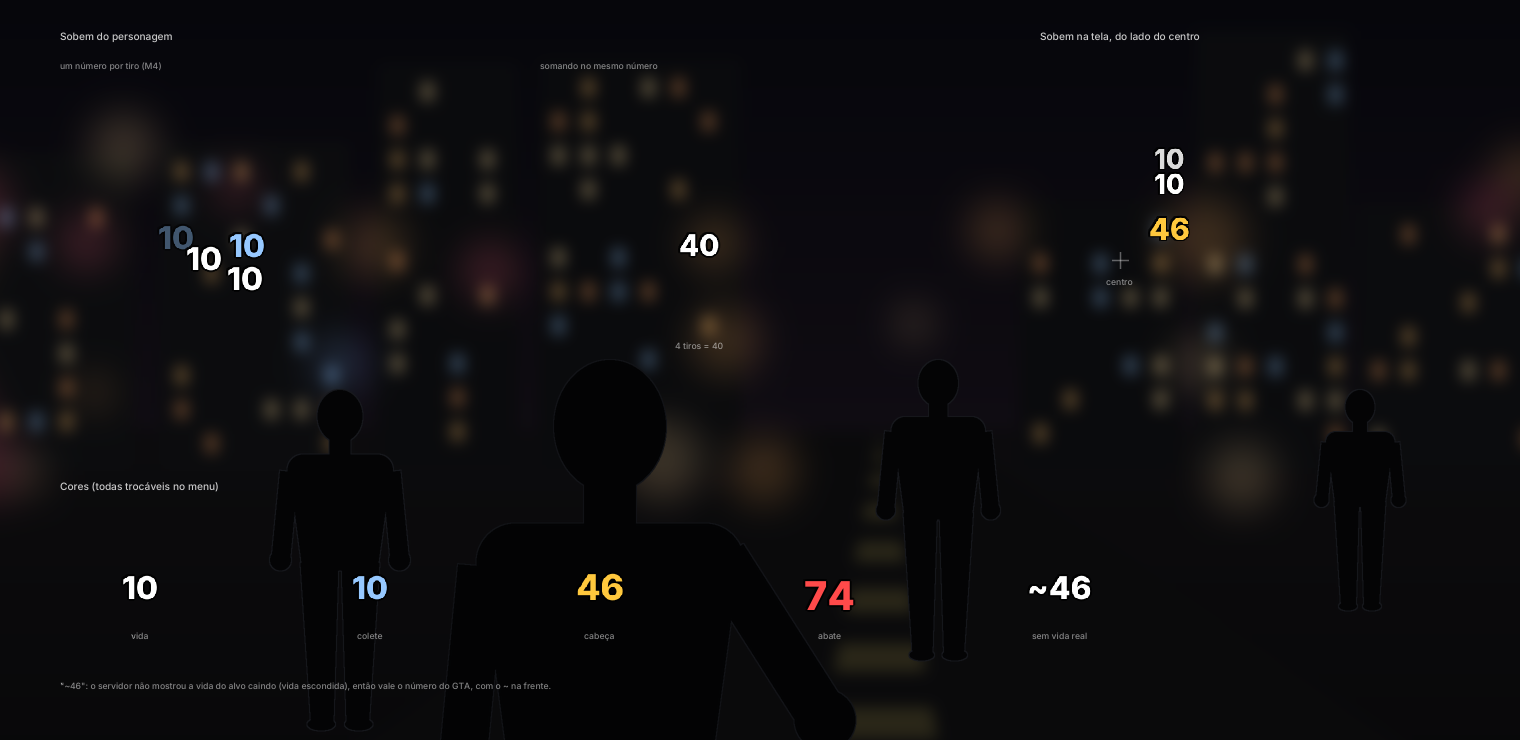
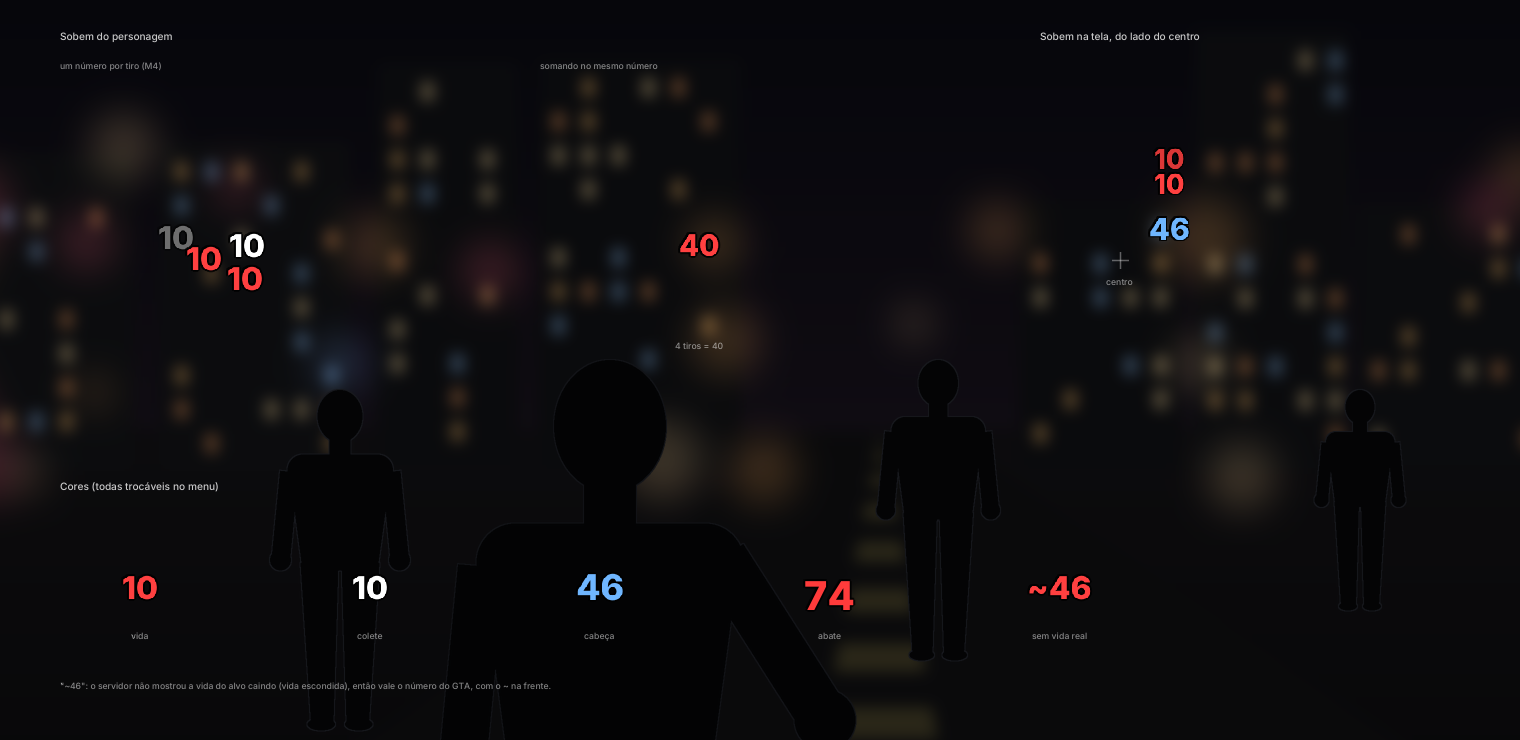
Trok Hitmarker concept: Trok dot crosshair and dot hit effects
Brings the user's Mira Centralizada script into the Mira tab: game
crosshair or the Trok dot (always visible on foot, hidden in vehicles
and with sniper, rocket launchers), with size and color. New "Ponto"
hit effect, the default: the dot itself reacts (red pop with a ring,
blue cross on headshot, red X on kill), timed in seconds instead of
frames. Hit colors follow that script: hit red, head blue, kill red.
The on-body hit location always uses the X and moved to the Dano tab.

Claude-Session: https://claude.ai/code/session_01PybPBz7ZnmDEjHWo6B5FJ6

diff --git a/trok-hit/test/concept.cpp b/trok-hit/test/concept.cpp
@@ -155,6 +155,7 @@ static hud::Line EnzoLine() {
 static hud::State Fight() {
     hud::State s;
     s.crosshair = CROSS;
+    s.showCrosshair = true;
     // os tiros de antes ainda marcados no corpo (perna e peito) e o da cabeca agora
     hud::Marker m;
     m.body = LEG, m.age = 1.3f, m.kind = hud::ARMOUR;
@@ -189,7 +190,7 @@ static void Frame(const hud::State& s, bool crosshair, float dim, void (*extra)(
     io.DeltaTime = 1.0f / 60.0f;
     ImGui::NewFrame();
     ImDrawList* dl = ImGui::GetBackgroundDrawList();
-    if (crosshair) GameCrosshair(dl, s.crosshair);
+    if (crosshair && opt::Get().crosshair == 0) GameCrosshair(dl, s.crosshair); // com o ponto do Trok, o GTA nao desenha a dele
     hud::Draw(dl, s, opt::Get(), io.DisplaySize);
     if (extra) extra(dl);
     ImGui::Render();
@@ -201,25 +202,41 @@ static void Frame(const hud::State& s, bool crosshair, float dim, void (*extra)(
 
 static void BoardMarkers(ImDrawList* dl) {
     opt::Options o = opt::Get();
-    const char* styles[] = {"Cl\xC3\xA1ssico (CoD)", "Discreto", "Anel"};
-    const char* kinds[] = {"Vida", "Colete", "Cabe\xC3\xA7" "a", "Abate"};
-    hud::Kind k[] = {hud::HEALTH, hud::ARMOUR, hud::HEADSHOT, hud::KILL};
-    float x0 = 330, y0 = 150, cw = 150, rh = 120;
-    for (int c = 0; c < 4; ++c) Label(dl, x0 + c * cw, y0 - 60, kinds[c], true);
-    for (int r = 0; r < 3; ++r) {
+    const char* styles[] = {"Ponto", "Cl\xC3\xA1ssico (X)", "Discreto", "Anel"};
+    const char* kinds[] = {"Mira", "Vida", "Colete", "Cabe\xC3\xA7" "a", "Abate"};
+    hud::Kind k[] = {hud::HEALTH, hud::HEALTH, hud::ARMOUR, hud::HEADSHOT, hud::KILL};
+    float x0 = 330, y0 = 150, cw = 150, rh = 110;
+    for (int c = 0; c < 5; ++c) Label(dl, x0 + c * cw, y0 - 60, kinds[c], true);
+    for (int r = 0; r < 4; ++r) {
         Label(dl, 60, y0 + r * rh - 10, styles[r]);
-        for (int c = 0; c < 4; ++c) hud::DrawMarker(dl, ImVec2(x0 + c * cw, y0 + r * rh), r, 1.3f, 0.1f, k[c], o);
+        for (int c = 0; c < 5; ++c) {
+            ImVec2 at(x0 + c * cw, y0 + r * rh);
+            if (c == 0) {
+                if (r == 0) hud::DrawCrosshair(dl, at, 1.5f, o);
+                else dl->AddCircle(at, 15, IM_COL32(255, 255, 255, 150), 40, 1.6f);
+            } else {
+                hud::DrawMarker(dl, at, r, 1.5f, 0.12f, k[c], o);
+            }
+        }
     }
-    // a animacao do classico, quadro a quadro
-    float y = y0 + 3 * rh + 40;
-    Label(dl, 60, y - 10, "Um acerto, quadro a quadro");
-    float ages[] = {0.0f, 0.03f, 0.08f, 0.16f, 0.22f, 0.28f};
-    const char* ms[] = {"0 ms", "30 ms", "80 ms", "160 ms", "220 ms", "280 ms"};
-    for (int i = 0; i < 6; ++i) {
-        hud::DrawMarker(dl, ImVec2(x0 + i * 110, y), 0, 1.3f, ages[i], hud::HEALTH, o);
-        Small(dl, x0 + i * 110, y + 40, ms[i], true);
+    // o Ponto, quadro a quadro: acerto, cabeca e abate
+    float y = y0 + 4 * rh + 30;
+    Label(dl, 60, y - 10, "Ponto, quadro a quadro");
+    float ages[] = {0.0f, 0.05f, 0.12f, 0.3f, 0.6f, 1.0f};
+    const char* ms[] = {"0 ms", "50 ms", "120 ms", "300 ms", "600 ms", "1 s"};
+    hud::Kind rowKind[] = {hud::HEALTH, hud::HEADSHOT, hud::KILL};
+    const char* rowName[] = {"vida", "cabe\xC3\xA7" "a", "abate"};
+    for (int rr = 0; rr < 3; ++rr) {
+        Small(dl, 200, y + rr * 70 - 8, rowName[rr]);
+        for (int i = 0; i < 6; ++i) {
+            ImVec2 at(x0 + i * 120, y + rr * 70);
+            hud::DrawCrosshair(dl, at, 1.5f, o); // o ponto continua por baixo
+            hud::DrawMarker(dl, at, 0, 1.5f, ages[i], rowKind[rr], o);
+            if (rr == 2) Small(dl, at.x, at.y + 34, ms[i], true);
+        }
     }
-    Small(dl, 60, y + 70, "Abate: fica vermelho, maior e dura 0,65 s. Cada tiro novo reinicia a anima\xC3\xA7\xC3\xA3o.");
+    Small(dl, 60, y + 3 * 70 + 26,
+          "Tudo em tempo, n\xC3\xA3o em quadros: acerto 0,35 s, cabe\xC3\xA7" "a 0,55 s, abate 1,2 s, em qualquer FPS.");
 }
 
 static void BoardNumbers(ImDrawList* dl) {
@@ -380,7 +397,7 @@ int main(int argc, char** argv) {
     hud::State empty;
     empty.crosshair = CROSS;
     Frame(empty, false, 0.35f, BoardMarkers);
-    Save(dir + "/04-hitmarker.ppm", 0, 40, 1120, 760);
+    Save(dir + "/04-hitmarker.ppm", 0, 40, 1160, 960);
 
     // 5. Numeros
     Frame(empty, false, 0.35f, BoardNumbers);
@@ -424,7 +441,7 @@ int main(int argc, char** argv) {
 
     // 8. A mira seguida de verdade: a do GTA (53% x 40%) e a de um mod que centraliza a mira (50% x 50%)
     o = opt::Options();
-    o.numbers = 2, o.direction = false, o.edgeFlash = false;
+    o.numbers = 2, o.direction = false, o.edgeFlash = false, o.crosshair = 0, o.marker = 1;
     s = Fight();
     s.taken.clear();
     s.given.clear();

diff --git a/trok-hit/src/hud.cpp b/trok-hit/src/hud.cpp
@@ -202,11 +202,58 @@ ImU32 KindColor(Kind k, const opt::Options& o) {
     }
 }
 
+void DrawCrosshair(ImDrawList* dl, ImVec2 c, float scale, const opt::Options& o) {
+    float r = 3.4f * scale * o.crosshairSize / 100.0f;
+    dl->AddCircleFilled(c, r + 1.6f * scale, IM_COL32(0, 0, 0, 200), 20);
+    dl->AddCircleFilled(c, r, Opaque(o.cCrosshair), 20);
+}
+
+// Ponto: o proprio ponto da mira reage. Acerto: fica na cor e pula, com um anel abrindo. Cabeca: na cor da cabeca, com
+// quatro tracos em cruz. Abate: o X na cor do abate em volta do ponto, que fica mais tempo.
+static void Dot(ImDrawList* dl, ImVec2 c, float s, float age, float life, float a, Kind kind, const opt::Options& o) {
+    ImU32 color = Alpha(KindColor(kind, o), a);
+    ImU32 dark = Alpha(IM_COL32(0, 0, 0, 255), 0.75f * a);
+    float rd = 3.6f * s;
+    float pop = 1.0f - EaseOut(age / 0.1f); // 1 -> 0 no primeiro decimo de segundo
+    if (kind == KILL) {
+        float r0 = rd + 3.5f * s, r1 = rd + (11 + 5 * pop) * s;
+        for (int i = 0; i < 4; ++i) {
+            float dx = (i & 1) ? 0.7071f : -0.7071f, dy = (i & 2) ? 0.7071f : -0.7071f;
+            ImVec2 p0(c.x + dx * r0, c.y + dy * r0), p1(c.x + dx * r1, c.y + dy * r1);
+            dl->AddLine(p0, p1, dark, 6.2f * s);
+            dl->AddLine(p0, p1, color, 3.6f * s);
+        }
+        dl->AddCircleFilled(c, rd + 1.6f * s, dark, 20);
+        dl->AddCircleFilled(c, rd, Alpha(Opaque(o.cCrosshair), a), 20);
+        return;
+    }
+    if (kind == HEADSHOT) {
+        float r0 = rd + 2.8f * s, r1 = rd + (8.5f + 4 * pop) * s;
+        for (int i = 0; i < 4; ++i) {
+            float dx = i == 0 ? 1.0f : i == 1 ? -1.0f : 0.0f, dy = i == 2 ? 1.0f : i == 3 ? -1.0f : 0.0f;
+            ImVec2 p0(c.x + dx * r0, c.y + dy * r0), p1(c.x + dx * r1, c.y + dy * r1);
+            dl->AddLine(p0, p1, dark, 5.6f * s);
+            dl->AddLine(p0, p1, color, 3.0f * s);
+        }
+    }
+    float ring = EaseOut(age / life);
+    dl->AddCircle(c, rd + 2 * s + 10 * s * ring, Alpha(KindColor(kind, o), a * (1.0f - ring) * 0.8f), 32, 1.6f * s);
+    float r = rd * (1.0f + 0.6f * pop);
+    dl->AddCircleFilled(c, r + 1.6f * s, dark, 20);
+    dl->AddCircleFilled(c, r, color, 20);
+}
+
 void DrawMarker(ImDrawList* dl, ImVec2 c, int style, float scale, float age, Kind kind, const opt::Options& o,
                 float stay) {
     bool kill = kind == KILL;
-    float life = kill ? 0.65f : style == 1 ? 0.2f : 0.32f;
-    float hold = kill ? 0.4f : style == 1 ? 0.08f : 0.16f;
+    float life, hold;
+    if (style == 0) { // ponto: abate fica mais (o "morte" da Mira Centralizada durava 150 quadros)
+        life = kill ? 1.2f : kind == HEADSHOT ? 0.55f : 0.35f;
+        hold = kill ? 0.85f : kind == HEADSHOT ? 0.3f : 0.15f;
+    } else {
+        life = kill ? 0.65f : style == 2 ? 0.2f : 0.32f;
+        hold = kill ? 0.4f : style == 2 ? 0.08f : 0.16f;
+    }
     if (stay > 0) {
         life = stay;
         hold = std::max(0.1f, stay - 0.35f);
@@ -220,10 +267,13 @@ void DrawMarker(ImDrawList* dl, ImVec2 c, int style, float scale, float age, Kin
     float big = kill ? 1.3f : kind == HEADSHOT ? 1.12f : 1.0f;
     float s = scale;
     switch (style) {
-    case 0: // classico: o X do CoD
+    case 0:
+        Dot(dl, c, s, age, life, a, kind, o);
+        break;
+    case 1: // classico: o X do CoD
         Classic(dl, c, 8 * s * pop, 19 * s * pop * big, (kill ? 3.4f : 2.6f) * s, color, true);
         break;
-    case 1: // discreto: risquinhos finos
+    case 2: // discreto: risquinhos finos
         Classic(dl, c, 5 * s * pop, 11 * s * pop * big, 1.6f * s, color, false);
         break;
     default: { // anel que abre
@@ -338,12 +388,15 @@ void Draw(ImDrawList* dl, const State& st, const opt::Options& o, ImVec2 screen)
         float bs = k * o.markerSize / 100.0f * o.hitLocalSize / 100.0f;
         for (const Marker& m : st.markers) {
             if (m.bodyVisible) {
-                DrawMarker(dl, m.body, o.marker, bs, m.age, m.kind, o, static_cast<float>(o.hitLocalTime));
+                DrawMarker(dl, m.body, 1, bs, m.age, m.kind, o, static_cast<float>(o.hitLocalTime)); // sempre o X
             }
         }
     }
 
-    // sinal de acerto na mira (onde a mira esta neste quadro)
+    // o ponto do Trok (no lugar da mira do jogo) e o sinal de acerto, onde a mira esta neste quadro
+    if (o.crosshair == 1 && st.showCrosshair) {
+        DrawCrosshair(dl, st.crosshair, k, o);
+    }
     if (o.onAim) {
         float ms = k * o.markerSize / 100.0f;
         for (const Marker& m : st.markers) {

diff --git a/trok-hit/src/menu.cpp b/trok-hit/src/menu.cpp
@@ -62,18 +62,28 @@ void MoveSelection(int* selected, int count, const Keys& k, Rows& rows) {
 }
 
 // Previa embaixo da aba: os quatro hitmarkers parados no meio da animacao, com o nome de cada um.
+// Previa embaixo da aba: a mira e os quatro sinais de acerto parados no meio da animacao, com o nome de cada um.
 void MarkerPreview(float x, float w) {
     opt::Options& o = opt::Get();
     ImDrawList* dl = ImGui::GetWindowDrawList();
     ImVec2 at = ImGui::GetCursorScreenPos();
     float h = 92 * u;
     dl->AddRectFilled(ImVec2(x, at.y + 6 * u), ImVec2(x + w, at.y + h), col::White(6), 8 * u);
-    const char* names[] = {"Vida", "Colete", "Cabe\xC3\xA7" "a", "Abate"};
-    hud::Kind kinds[] = {hud::HEALTH, hud::ARMOUR, hud::HEADSHOT, hud::KILL};
-    for (int i = 0; i < 4; ++i) {
-        float cx = x + w * (i + 0.5f) / 4;
-        float scale = ImGui::GetIO().DisplaySize.y / 1080.0f * o.markerSize / 100.0f;
-        hud::DrawMarker(dl, ImVec2(cx, at.y + 40 * u), o.marker, scale, 0.1f, kinds[i], o);
+    const char* names[] = {"Mira", "Vida", "Colete", "Cabe\xC3\xA7" "a", "Abate"};
+    hud::Kind kinds[] = {hud::HEALTH, hud::HEALTH, hud::ARMOUR, hud::HEADSHOT, hud::KILL};
+    float scale = ImGui::GetIO().DisplaySize.y / 1080.0f * 1.3f;
+    for (int i = 0; i < 5; ++i) {
+        float cx = x + w * (i + 0.5f) / 5;
+        ImVec2 c(cx, at.y + 40 * u);
+        if (i == 0) {
+            if (o.crosshair == 1) {
+                hud::DrawCrosshair(dl, c, scale, o);
+            } else { // a do jogo: um circulo, so para lembrar
+                dl->AddCircle(c, 11 * scale, col::White(150), 32, 1.4f * scale);
+            }
+        } else {
+            hud::DrawMarker(dl, c, o.marker, scale * o.markerSize / 100.0f, 0.12f, kinds[i], o);
+        }
         ImVec2 ts = TextSize(fonts.desc, names[i]);
         Text(dl, fonts.desc, cx - ts.x * 0.5f, at.y + 68 * u, col::hint, names[i]);
     }
@@ -83,18 +93,21 @@ void MarkerPreview(float x, float w) {
 void TabMira(Rows& r, float x, float w) {
     opt::Options& o = opt::Get();
     const opt::Options& d = opt::Defaults();
-    static const char* const style[] = {"Cl\xC3\xA1ssico", "Discreto", "Anel"};
-    r.Cycle("Hitmarker", &o.marker, style, 3, d.marker);
-    r.Slider("Tamanho", &o.markerSize, 50, 200, 10, "%d%%", d.markerSize);
-    r.Section("Na mira");
+    static const char* const mira[] = {"A do jogo", "Ponto do Trok"};
+    r.Segmented("Mira", &o.crosshair, mira, 2, d.crosshair);
+    if (o.crosshair == 1) {
+        r.Toggle("Sempre vis\xC3\xADvel (tamb\xC3\xA9m sem mirar)", &o.crosshairAlways);
+        r.Slider("Tamanho da mira", &o.crosshairSize, 50, 200, 10, "%d%%", d.crosshairSize);
+        r.Color("Cor da mira", &o.cCrosshair, d.cCrosshair);
+    }
+    r.Section("Sinal de acerto");
     r.Toggle("Sinal de acerto na mira", &o.onAim);
-    r.Section("No corpo");
-    r.Toggle("Local do acerto", &o.hitLocal);
-    r.Slider("Fica no corpo", &o.hitLocalTime, 1, 5, 1, "%d s", d.hitLocalTime);
-    r.Slider("Tamanho no corpo", &o.hitLocalSize, 50, 150, 10, "%d%%", d.hitLocalSize);
-    r.Section("Cores");
-    r.Color("Acerto na vida", &o.cHealth, d.cHealth);
-    r.Color("Acerto no colete", &o.cArmour, d.cArmour);
+    static const char* const style[] = {"Ponto", "Cl\xC3\xA1ssico (X)", "Discreto", "Anel"};
+    r.Cycle("Efeito", &o.marker, style, 4, d.marker);
+    r.Slider("Tamanho do efeito", &o.markerSize, 50, 200, 10, "%d%%", d.markerSize);
+    r.Section("Cores do acerto");
+    r.Color("Na vida", &o.cHealth, d.cHealth);
+    r.Color("No colete", &o.cArmour, d.cArmour);
     r.Color("Na cabe\xC3\xA7" "a", &o.cHead, d.cHead);
     r.Color("Abate", &o.cKill, d.cKill);
     MarkerPreview(x, w);
@@ -115,6 +128,10 @@ void TabDano(Rows& r) {
     r.Slider("Tamanho", &o.numbersSize, 50, 200, 10, "%d%%", d.numbersSize);
     static const char* const font[] = {"Arial Black", "Da casa"};
     r.Segmented("Fonte dos n\xC3\xBAmeros", &o.numbersFont, font, 2, d.numbersFont);
+    r.Section("Local do acerto (no corpo)");
+    r.Toggle("Marcar onde o tiro pegou", &o.hitLocal);
+    r.Slider("Fica no corpo", &o.hitLocalTime, 1, 5, 1, "%d s", d.hitLocalTime);
+    r.Slider("Tamanho no corpo", &o.hitLocalSize, 50, 150, 10, "%d%%", d.hitLocalSize);
 }
 
 void TabInformer(Rows& r) {

diff --git a/trok-hit/src/options.h b/trok-hit/src/options.h
@@ -16,8 +16,14 @@ struct Options {
     bool enabled = true;
     int preset = 0; // estilo pronto aplicado por ultimo (so para o menu mostrar)
 
-    // ---- Mira: o hitmarker
-    int marker = 0;          // 0 Classico (X), 1 Discreto, 2 Anel
+    // ---- Mira
+    int crosshair = 1;       // 0 a do jogo, 1 ponto do Trok (como a Mira Centralizada; o GTA nao desenha a dele)
+    bool crosshairAlways = true; // ponto do Trok: aparece tambem sem mirar (a pe; some no carro, sniper e bazucas)
+    int crosshairSize = 100; // %
+    ImU32 cCrosshair = IM_COL32(255, 255, 255, 255);
+
+    // ---- Sinal de acerto na mira
+    int marker = 0;          // 0 Ponto (o ponto muda: acerto, cabeca, abate), 1 Classico (X), 2 Discreto, 3 Anel
     bool onAim = true;       // sinal de acerto onde a mira esta (le onde o GTA desenhou a mira neste quadro, entao
                              // segue mod que centraliza ou sobe a mira; sem opcao de lugar)
     int markerSize = 100;    // %
@@ -49,10 +55,11 @@ struct Options {
     bool edgeFlash = true;   // borda da tela ao levar dano, na cor do que foi atingido
 
     // ---- Cores (ARGB do ImGui)
-    ImU32 cHealth = IM_COL32(255, 255, 255, 255);  // dano na vida
-    ImU32 cArmour = IM_COL32(150, 200, 255, 255);  // dano no colete
-    ImU32 cHead = IM_COL32(255, 200, 61, 255);     // na cabeca
-    ImU32 cKill = IM_COL32(255, 74, 74, 255);      // abate
+    // As cores do acerto seguem a Mira Centralizada: acerto vermelho, cabeca azul, abate com o X vermelho.
+    ImU32 cHealth = IM_COL32(255, 64, 64, 255);    // dano na vida
+    ImU32 cArmour = IM_COL32(255, 255, 255, 255);  // dano no colete
+    ImU32 cHead = IM_COL32(111, 182, 255, 255);    // na cabeca
+    ImU32 cKill = IM_COL32(255, 59, 59, 255);      // abate
     ImU32 cGiven = IM_COL32(91, 227, 125, 255);    // nick (cor fixa) ao dar dano
     ImU32 cTaken = IM_COL32(255, 90, 90, 255);     // nick (cor fixa) e numero ao levar dano
     ImU32 cCombo = IM_COL32(255, 96, 96, 255);     // o "(x3 · 138)" do informer classico

diff --git a/trok-hit/src/hud.h b/trok-hit/src/hud.h
@@ -58,8 +58,9 @@ struct Incoming {   // tiro levado: de onde veio
 };
 
 struct State {
-    ImVec2 crosshair;             // onde a mira esta neste quadro (no GTA puro, 53% x 40% da tela); so o sinal
-                                  // de acerto usa: o resto fica preso ao centro da tela
+    ImVec2 crosshair;             // onde a mira esta neste quadro (no GTA puro, 53% x 40% da tela); so a mira e o
+                                  // sinal de acerto usam: o resto fica preso ao centro da tela
+    bool showCrosshair = false;   // ponto do Trok neste quadro (mirando, ou "sempre visivel" a pe com arma que tem mira)
     std::vector<Marker> markers;
     std::vector<Number> numbers;
     std::vector<Line> given, taken;
@@ -75,6 +76,7 @@ ImU32 KindColor(Kind k, const opt::Options& o);
 void Draw(ImDrawList* dl, const State& s, const opt::Options& o, ImVec2 screen);
 
 // Partes soltas (o menu desenha a previa com elas).
+void DrawCrosshair(ImDrawList* dl, ImVec2 at, float scale, const opt::Options& o);
 // stay > 0: a marca fica inteira ate quase o fim de stay segundos (local do acerto); 0 = o piscar da mira.
 void DrawMarker(ImDrawList* dl, ImVec2 at, int style, float scale, float age, Kind kind, const opt::Options& o,
                 float stay = 0);

diff --git a/trok-hit/README.md b/trok-hit/README.md
@@ -21,8 +21,10 @@ Indicador de dano para o SA-MP 0.3.7 R1, no estilo da casa: sinal de acerto na m
 
 Só o sinal de acerto acompanha a mira. O resto fica preso à tela: a seta de onde veio o tiro gira em volta do centro, o informer fica dos dois lados do centro (dado à direita, levado à esquerda) e os números "na tela" sobem do lado do centro.
 
-- **Sinal na mira:** desenhado onde a mira está naquele quadro. O mod lê onde o próprio GTA desenhou a mira, então mod que centraliza ou sobe a mira não precisa de ajuste nem de opção no menu (`docs/08-mira-seguida.png`).
-- **Local do acerto:** a marca fica na parte do corpo que o tiro pegou (cabeça, tronco, braço, perna) por 1 a 5 s, acompanhando o alvo quando ele anda (`docs/06-local-do-acerto.png`).
+- **Mira:** a do jogo ou o **ponto do Trok** (o da Mira Centralizada, refeito no kit): ponto com contorno, na cor e no tamanho escolhidos, que pode ficar **sempre visível** (também sem mirar, a pé; some no carro e com sniper, bazuca e lança-mísseis, como no script original). Com o ponto do Trok, o GTA não desenha a mira dele.
+- **Sinal de acerto na mira:** efeitos Ponto (o próprio ponto reage: acerto na cor e pulando com um anel abrindo, cabeça com uma cruz, abate com o X em volta), Clássico (X), Discreto e Anel (`docs/04-hitmarker.png`). Medido em tempo (acerto 0,35 s, cabeça 0,55 s, abate 1,2 s), não em quadros como os 30/150 quadros da Mira Centralizada.
+- **Onde:** desenhado onde a mira está naquele quadro. O mod lê onde o próprio GTA desenhou a mira, então mod que centraliza ou sobe a mira não precisa de ajuste nem de opção no menu (`docs/08-mira-seguida.png`).
+- **Local do acerto:** o X fica na parte do corpo que o tiro pegou (cabeça, tronco, braço, perna) por 1 a 5 s, acompanhando o alvo quando ele anda (`docs/06-local-do-acerto.png`).
 
 ## Dano recebido
 
